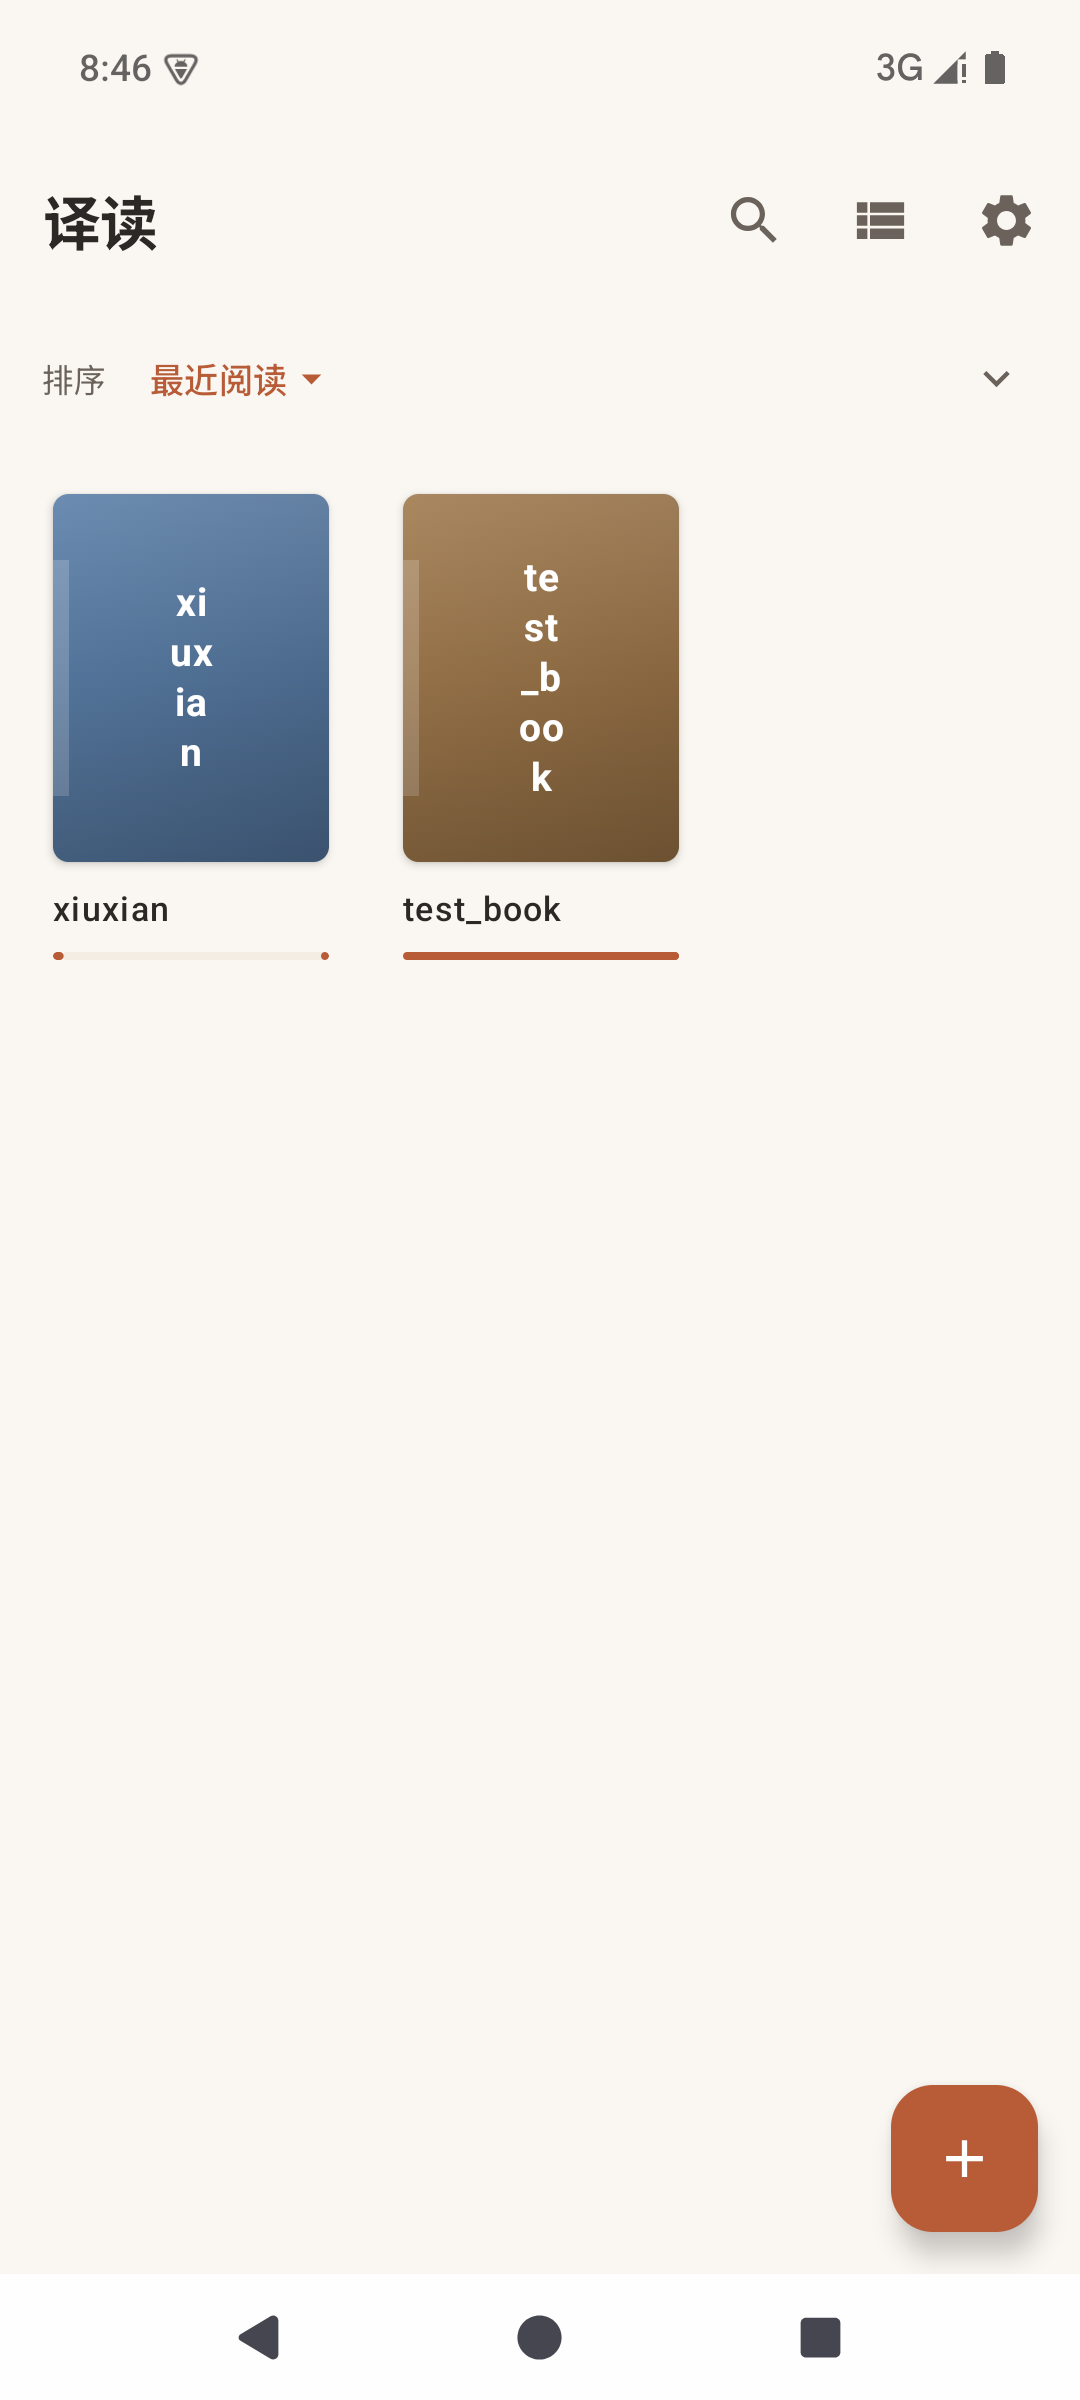
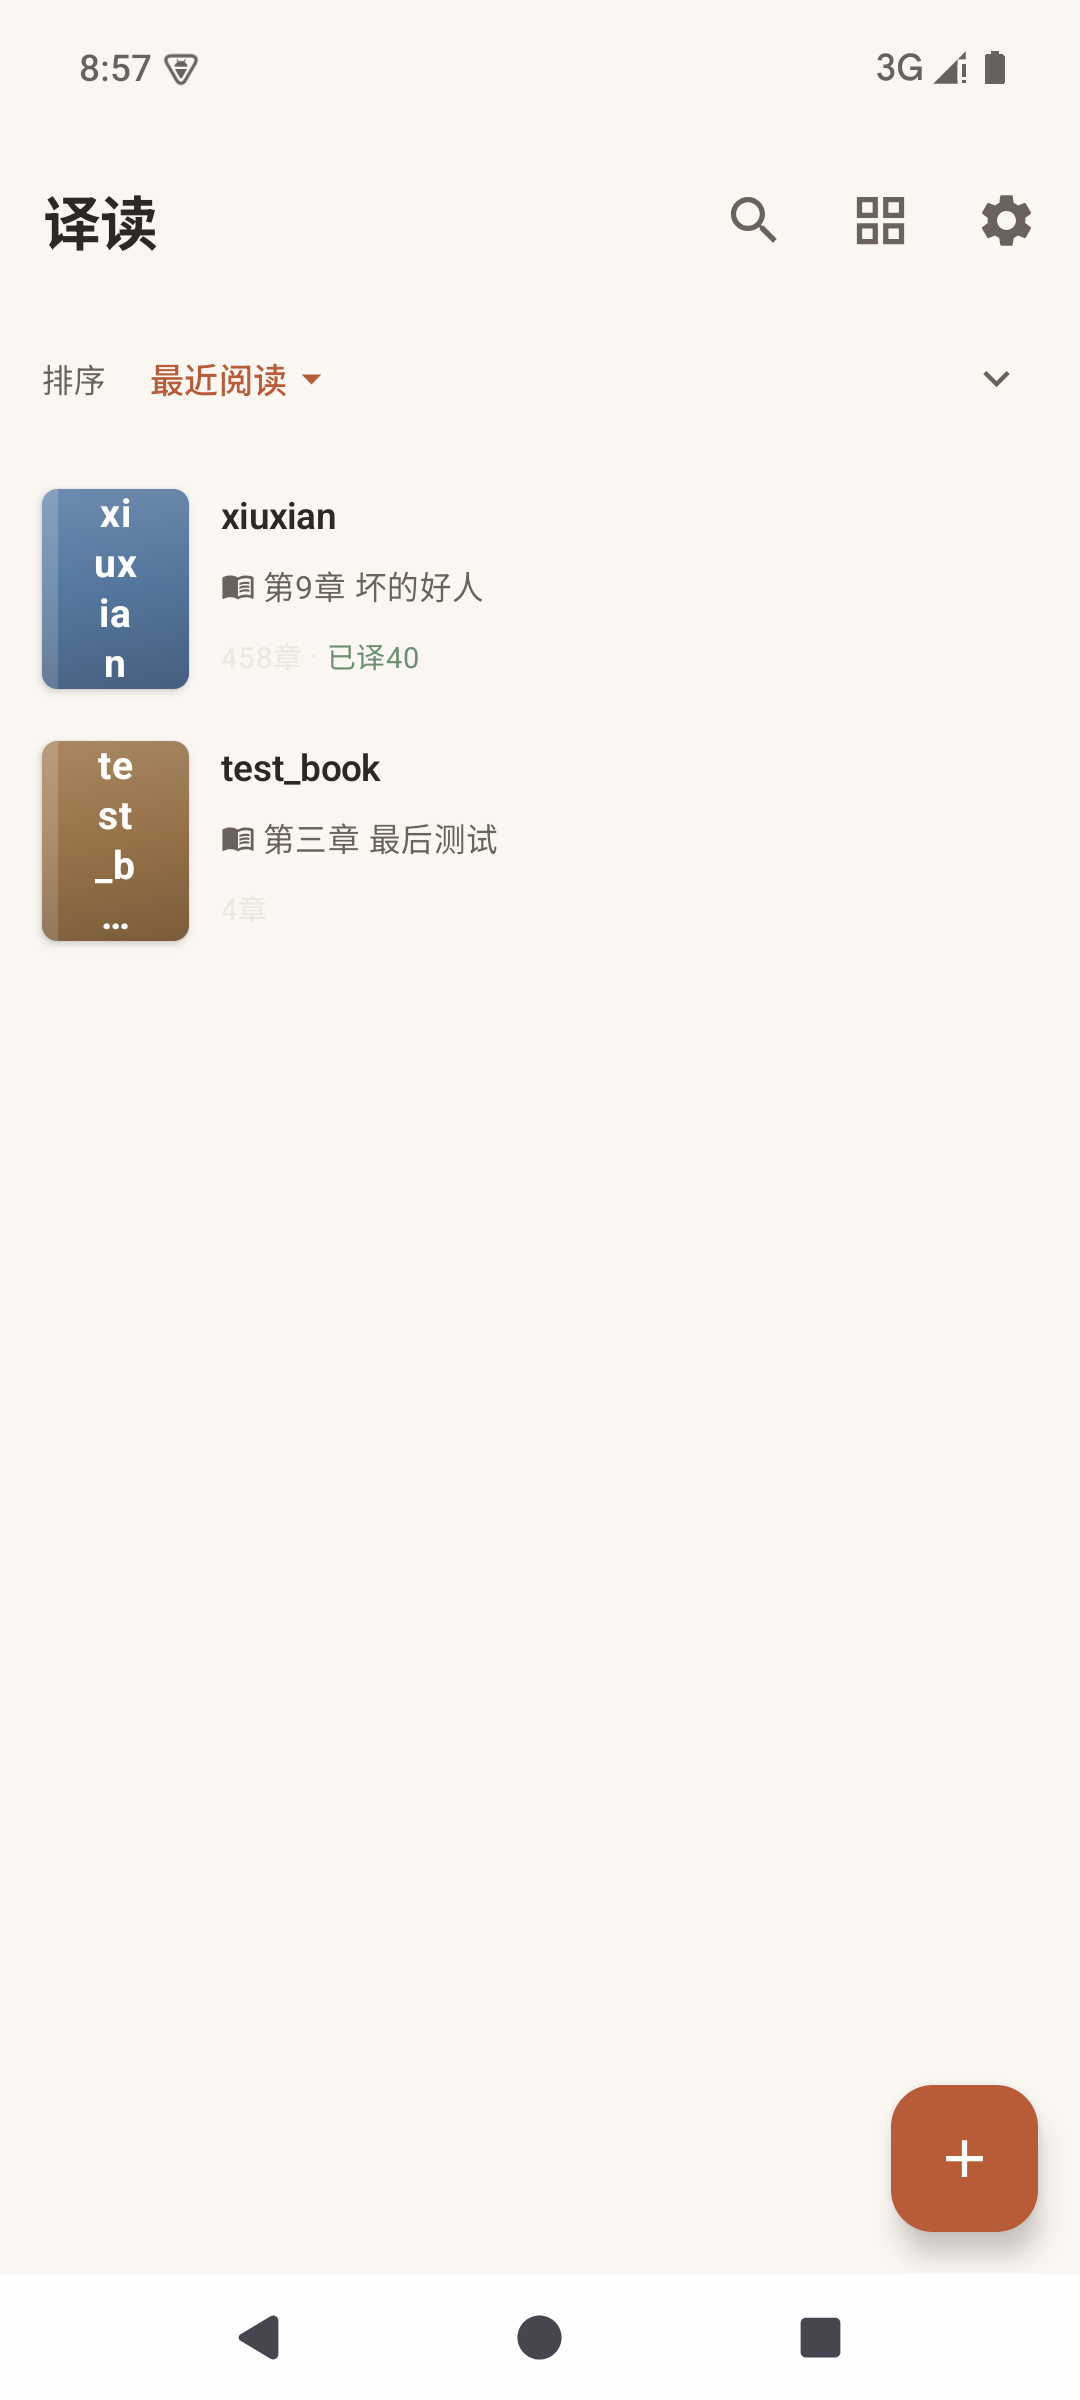
refactor(bookshelf): redesign book progress display following Legado patterns
List mode: three-row layout — title, reading chapter title (with book
icon), chapter count + translated count. Remove thin progress bar in
favor of chapter-title-based progress (matches Legado approach).

Grid mode: cover with bottom gradient overlay for book title, top-right
translation badge showing translated/total chapters. Remove progress
bar and "未开始" text.

Changed region(s): [[0.0306, 0.1875, 0.6417, 0.4062], [0.7944, 0.0625, 0.8556, 0.125], [0.0917, 0.0, 0.1528, 0.0312]]

diff --git a/app/src/main/java/com/vibereading/app/ui/bookshelf/BookshelfScreen.kt b/app/src/main/java/com/vibereading/app/ui/bookshelf/BookshelfScreen.kt
@@ -16,7 +16,6 @@ import androidx.compose.foundation.lazy.grid.items
 import androidx.compose.foundation.lazy.items
 import androidx.compose.foundation.shape.RoundedCornerShape
 import androidx.compose.material.icons.Icons
-import androidx.compose.material.icons.automirrored.filled.KeyboardArrowRight
 import androidx.compose.material.icons.filled.Add
 import androidx.compose.material.icons.filled.ArrowDropDown
 import androidx.compose.material.icons.filled.KeyboardArrowDown
@@ -33,6 +32,8 @@ import androidx.compose.runtime.*
 import androidx.compose.ui.Alignment
 import androidx.compose.ui.Modifier
 import androidx.compose.ui.draw.clip
+import androidx.compose.ui.graphics.Brush
+import androidx.compose.ui.graphics.Color
 import androidx.compose.ui.platform.LocalContext
 import androidx.compose.ui.text.font.FontWeight
 import androidx.compose.ui.text.style.TextOverflow
@@ -393,7 +394,7 @@ private fun SortBar(
     }
 }
 
-// ── 列表行：封面 + 书名 + 进度 ──
+// ── 列表行：封面 + 书名 + 阅读进度（仿 Legado 三行列表） ──
 @OptIn(ExperimentalFoundationApi::class)
 @Composable
 private fun BookRow(
@@ -409,7 +410,7 @@ private fun BookRow(
             .fillMaxWidth()
             .combinedClickable(onClick = onClick, onLongClick = onLongClick)
             .background(MaterialTheme.colorScheme.surface)
-            .padding(horizontal = 16.dp, vertical = 12.dp),
+            .padding(horizontal = 16.dp, vertical = 10.dp),
         verticalAlignment = Alignment.CenterVertically
     ) {
         BookCover(
@@ -417,9 +418,10 @@ private fun BookRow(
             modifier = Modifier.width(56.dp).height(76.dp)
         )
 
-        Spacer(Modifier.width(14.dp))
+        Spacer(Modifier.width(12.dp))
 
         Column(modifier = Modifier.weight(1f)) {
+            // 第 1 行：书名
             Text(
                 book.title,
                 style = MaterialTheme.typography.titleSmall,
@@ -427,53 +429,56 @@ private fun BookRow(
                 maxLines = 1,
                 overflow = TextOverflow.Ellipsis
             )
+
+            // 第 2 行：阅读进度章节标题
             Spacer(Modifier.height(4.dp))
+            if (item.lastReadChapterTitle != null) {
+                Row(verticalAlignment = Alignment.CenterVertically) {
+                    Icon(
+                        Icons.Filled.MenuBook,
+                        contentDescription = null,
+                        modifier = Modifier.size(13.dp),
+                        tint = MaterialTheme.colorScheme.onSurfaceVariant
+                    )
+                    Spacer(Modifier.width(3.dp))
+                    Text(
+                        item.lastReadChapterTitle,
+                        fontSize = 12.sp,
+                        maxLines = 1,
+                        overflow = TextOverflow.Ellipsis,
+                        color = MaterialTheme.colorScheme.onSurfaceVariant
+                    )
+                }
+            } else {
+                Text(
+                    "未开始阅读",
+                    fontSize = 12.sp,
+                    color = MaterialTheme.colorScheme.outline
+                )
+            }
+
+            // 第 3 行：章数 + 已译 + 翻译状态
+            Spacer(Modifier.height(3.dp))
             Row(verticalAlignment = Alignment.CenterVertically) {
                 Text(
                     "${book.totalChapters}章",
-                    style = MaterialTheme.typography.labelSmall,
-                    color = MaterialTheme.colorScheme.onSurfaceVariant
-                )
-                Text(" · ", style = MaterialTheme.typography.labelSmall, color = MaterialTheme.colorScheme.outline)
-                Text(
-                    "已译${item.translatedCount}",
-                    style = MaterialTheme.typography.labelSmall,
-                    color = VibeColors.Sage
-                )
-            }
-            // 阅读进度条
-            item.lastReadChapterTitle?.let { title ->
-                Spacer(Modifier.height(6.dp))
-                Text(
-                    title,
                     fontSize = 11.sp,
-                    maxLines = 1,
-                    overflow = TextOverflow.Ellipsis,
-                    color = MaterialTheme.colorScheme.onSurfaceVariant
+                    color = MaterialTheme.colorScheme.outline
                 )
-                Spacer(Modifier.height(4.dp))
-                LinearProgressIndicator(
-                    progress = { item.progress.coerceIn(0f, 1f) },
-                    modifier = Modifier
-                        .fillMaxWidth()
-                        .height(3.dp)
-                        .clip(RoundedCornerShape(2.dp)),
-                    color = accentColor,
-                    trackColor = MaterialTheme.colorScheme.surfaceVariant
-                )
+                if (item.translatedCount > 0) {
+                    Text(" · ", fontSize = 11.sp, color = MaterialTheme.colorScheme.outline)
+                    Text(
+                        "已译${item.translatedCount}",
+                        fontSize = 11.sp,
+                        color = VibeColors.Sage
+                    )
+                }
             }
         }
-
-        Icon(
-            Icons.AutoMirrored.Filled.KeyboardArrowRight,
-            contentDescription = null,
-            tint = MaterialTheme.colorScheme.outlineVariant,
-            modifier = Modifier.size(20.dp)
-        )
     }
 }
 
-// ── 网格卡片：竖版封面 + 书名 + 进度条 ──
+// ── 网格卡片：封面 + 底部渐变叠加书名 + 角标（仿 Legado grid） ──
 @OptIn(ExperimentalFoundationApi::class)
 @Composable
 private fun BookGridCard(
@@ -487,44 +492,63 @@ private fun BookGridCard(
     Column(
         modifier = Modifier
             .combinedClickable(onClick = onClick, onLongClick = onLongClick)
-            .background(MaterialTheme.colorScheme.surface, RoundedCornerShape(8.dp))
-            .padding(8.dp)
     ) {
-        BookCover(
-            title = book.title,
+        // 封面区域：封面 + 底部渐变叠加书名 + 右上角翻译角标
+        Box(
             modifier = Modifier
                 .fillMaxWidth()
                 .aspectRatio(3f / 4f)
-        )
-        Spacer(Modifier.height(6.dp))
-        Text(
-            book.title,
-            fontSize = 13.sp,
-            fontWeight = FontWeight.Medium,
-            maxLines = 1,
-            overflow = TextOverflow.Ellipsis,
-            color = MaterialTheme.colorScheme.onSurface,
-            modifier = Modifier.fillMaxWidth()
-        )
-        if (item.progress > 0f) {
-            Spacer(Modifier.height(4.dp))
-            LinearProgressIndicator(
-                progress = { item.progress.coerceIn(0f, 1f) },
+                .clip(RoundedCornerShape(8.dp))
+        ) {
+            BookCover(
+                title = book.title,
+                modifier = Modifier.fillMaxSize()
+            )
+
+            // 底部渐变遮罩 + 书名
+            Box(
                 modifier = Modifier
+                    .align(Alignment.BottomCenter)
                     .fillMaxWidth()
-                    .height(3.dp)
-                    .clip(RoundedCornerShape(2.dp)),
-                color = accentColor,
-                trackColor = MaterialTheme.colorScheme.surfaceVariant
-            )
-        } else {
-            Spacer(Modifier.height(3.dp))
-            Text(
-                "未开始",
-                fontSize = 10.sp,
-                color = MaterialTheme.colorScheme.outline,
-                modifier = Modifier.fillMaxWidth()
-            )
+                    .height(56.dp)
+                    .background(
+                        Brush.verticalGradient(
+                            colors = listOf(
+                                Color.Transparent,
+                                Color.Black.copy(alpha = 0.55f)
+                            )
+                        )
+                    )
+            ) {
+                Text(
+                    book.title,
+                    fontSize = 12.sp,
+                    fontWeight = FontWeight.Medium,
+                    maxLines = 2,
+                    overflow = TextOverflow.Ellipsis,
+                    color = Color.White,
+                    modifier = Modifier
+                        .align(Alignment.BottomStart)
+                        .padding(horizontal = 8.dp, vertical = 6.dp)
+                )
+            }
+
+            // 右上角：已译/总章 角标
+            if (item.translatedCount > 0) {
+                Surface(
+                    shape = RoundedCornerShape(topEnd = 8.dp, bottomStart = 8.dp),
+                    color = VibeColors.Sage.copy(alpha = 0.85f),
+                    modifier = Modifier.align(Alignment.TopEnd)
+                ) {
+                    Text(
+                        "${item.translatedCount}/${book.totalChapters}",
+                        fontSize = 10.sp,
+                        fontWeight = FontWeight.Medium,
+                        color = Color.White,
+                        modifier = Modifier.padding(horizontal = 5.dp, vertical = 2.dp)
+                    )
+                }
+            }
         }
     }
 }
